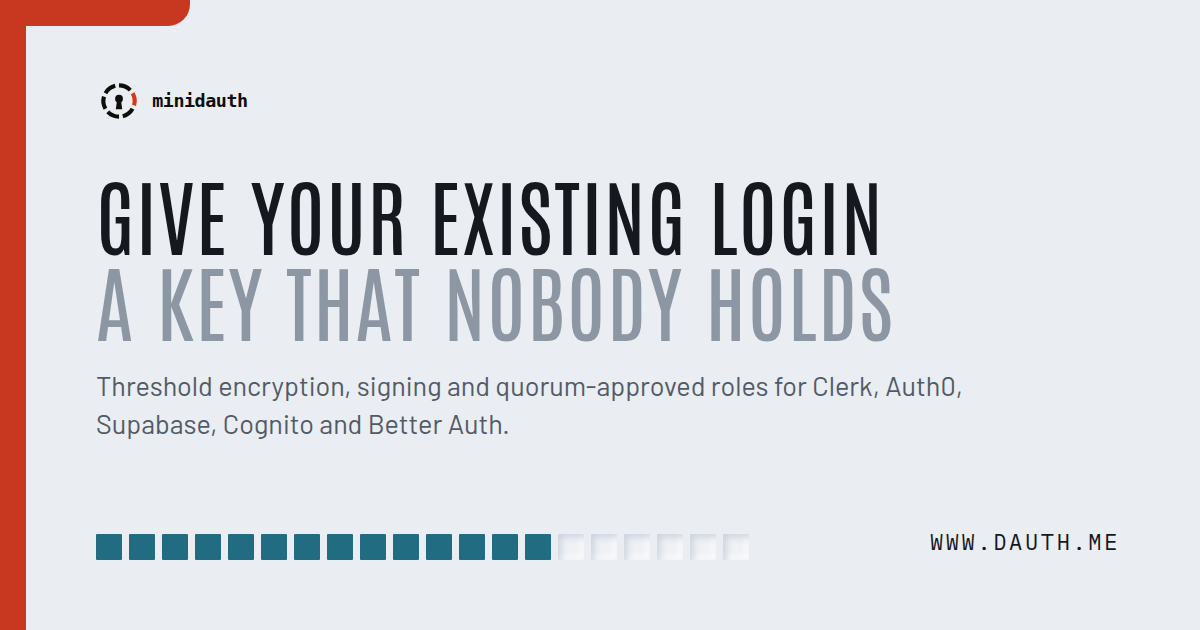
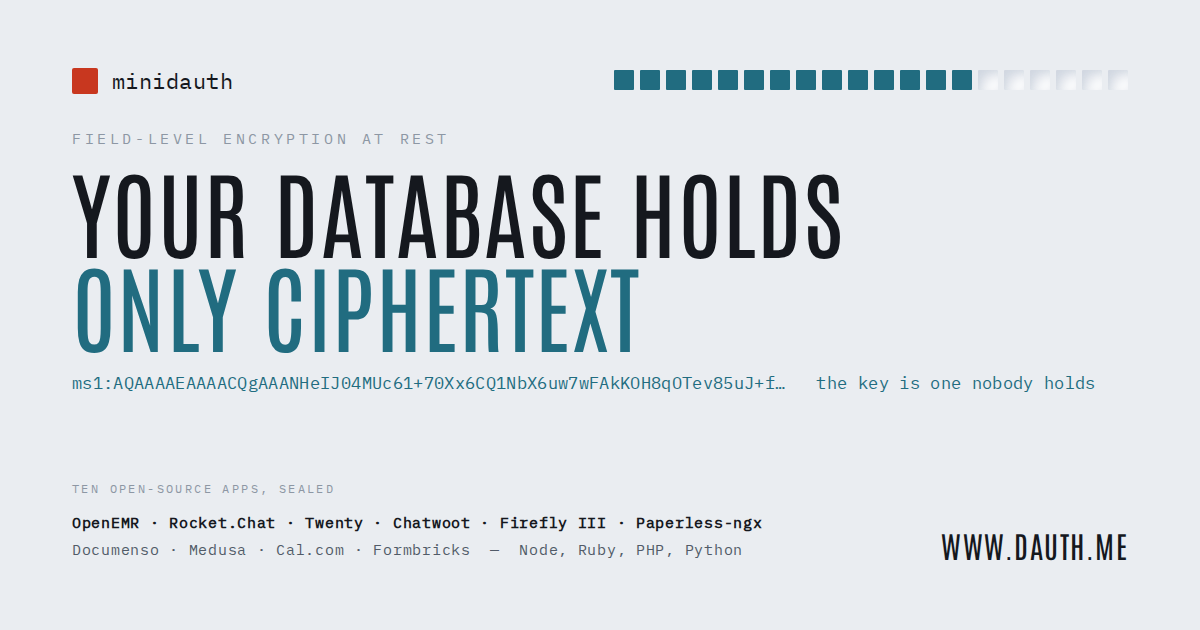
site: new OG image and a marketing lift for the projects index
- assets/og.png: rebuilt to match the new message (your database holds only
  ciphertext) with the ten apps and the four languages, in the site's own style.
- projects index: lead with the outcome and the count, and name the four
  languages, matching the home page.

diff --git a/site/projects/index.html b/site/projects/index.html
@@ -104,12 +104,18 @@
   <main>
 
     <header class="hero">
-      <h1>Open source apps <span>with minidauth added</span></h1>
+      <p class="label">Field-level encryption at rest, proven</p>
+      <h1>10 open-source apps <span>whose database can't read itself</span></h1>
       <p class="lede">
-        Real projects with their own logins and their own databases. Each fork seals the sensitive
-        fields before they reach Postgres, and reading them takes a role a quorum granted.
+        Not demos. Real projects with their own logins and their own databases, forked and made to
+        hold only ciphertext for the fields that matter.
       </p>
-      <p>Each one is off unless it's configured, so an unconfigured checkout behaves exactly like upstream.</p>
+      <p>
+        Each one seals the sensitive fields before they reach the database and opens them only for a
+        user a quorum granted the reading role. The same pattern works across
+        <strong>Node, Ruby, PHP and Python</strong>, and every fork is off unless it's configured,
+        so an unconfigured checkout behaves exactly like upstream.
+      </p>
     </header>
 
     <section id="list">

diff --git a/tools/site/gen_integrations.py b/tools/site/gen_integrations.py
@@ -669,14 +669,21 @@ def projects_index():
             <p>{q["lede"]}</p>
           </div>
         </a>""" for q in PROJ)
+    n_apps = len(PROJ)
     body = f"""
     <header class="hero">
-      <h1>Open source apps <span>with minidauth added</span></h1>
+      <p class="label">Field-level encryption at rest, proven</p>
+      <h1>{n_apps} open-source apps <span>whose database can't read itself</span></h1>
       <p class="lede">
-        Real projects with their own logins and their own databases. Each fork seals the sensitive
-        fields before they reach Postgres, and reading them takes a role a quorum granted.
+        Not demos. Real projects with their own logins and their own databases, forked and made to
+        hold only ciphertext for the fields that matter.
       </p>
-      <p>Each one is off unless it's configured, so an unconfigured checkout behaves exactly like upstream.</p>
+      <p>
+        Each one seals the sensitive fields before they reach the database and opens them only for a
+        user a quorum granted the reading role. The same pattern works across
+        <strong>Node, Ruby, PHP and Python</strong>, and every fork is off unless it's configured,
+        so an unconfigured checkout behaves exactly like upstream.
+      </p>
     </header>
 
     <section id="list">
